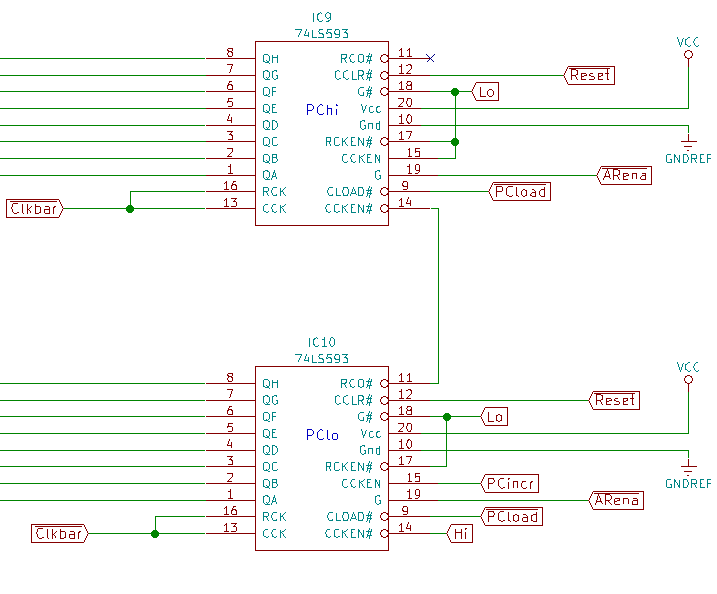
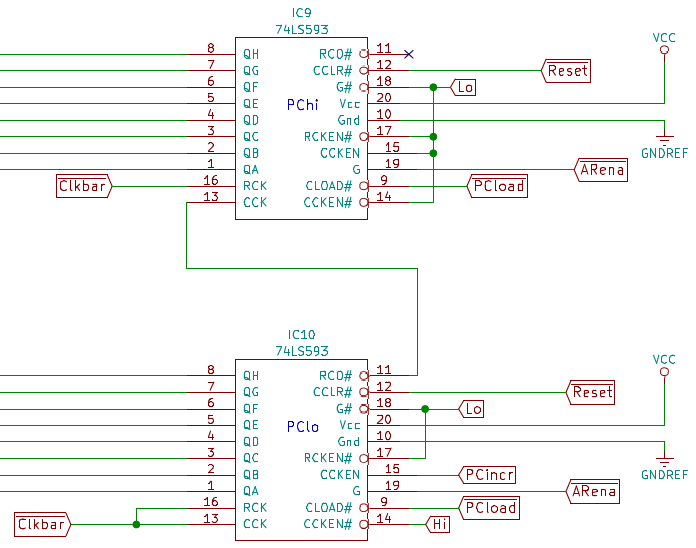
Brought the implementation notes up to date with the new PC circuit.

diff --git a/Docs/implementation_notes.md b/Docs/implementation_notes.md
@@ -100,23 +100,23 @@ The program counter (PC) must be able to load its value from the address
 registers on a jump, increment on consecutive microinstructions and
 sometimes keep its value unchanged.
 
-The PC load line is generated by the 74HCT138 and described above.
-We also need a rising edge for PC increments, and this also has to be
-delayed until the middle of the clock cycle.
+The PC load line (active low) is generated by a 74HCT251 multiplexer
+and is determined by the Jump control lines and the status lines from the
+ALU and UART. The PC increment line (active high) is generated from the
+Decode ROM.
 
-The 74LS593 has a *CCK* input to cause the internal counter to increment
-and two enable lines, *CCKEN* and *CCKEN#* (active high and low, respectively).
-When either *CCKEN* is high or *CCKEN#* is low, the counter will increment
-on a rising *CCK* edge.
+We need a rising edge for PC increments, and this has to be delayed until the
+middle of the clock cycle due to the ROM propagation delays.
+
+To create this rising edge in the middle of the clock cycle, an inverted
+clock signal *clkbar* is generated using an inverter. This is connected
+to both the *CCK* and *RCK* inputs of the 74LS593 used as the low half
+of the PC. *CCK*, when enabled, increments the PC; *RCK*, when enabled,
+causes the counter to load a new value.
 
 ![](Figs/PC_circuit.png)
 
-To make the counter increment halfway through a clock cycle, we must
-generate an inverted system clock signal, *Clkbar* in the above diagram.
-The *PCincr* line which control the PC's increment is wired to *CCKEN*.
-Therefore, the PC will increment halfway through the clock cycle, and
-because *CCK* will drop on a rising system clock edge, this also allows
-consecutive increments of the PC as shown below.
-
-![](Figs/example_pcincr.png)
-
+The 74LS593 is wired so that the PC load line enables *RCK* causes the
+PC load to load the value on the address bus halfway through the clock cycle.
+Similarly, the PC increment line enables *CCK* so that the PC increments its
+value halfway through the clock cycle.

diff --git a/journal.md b/journal.md
@@ -2859,3 +2859,45 @@ moved the Vcc supply over to the UART, so I know that's going to work as well.
 I've ordered some stripboard, some more DIP sockets and some solder on-line.
 I can't find a DIP-42 socket for the ALU, but I'll just use two rows of the
 pin sockets that I already have for the ALU socket.
+
+## Sat 11 May 16:24:30 AEST 2019
+
+Notes on the wiring when I get the PCB.
+
+Pulse clock 555 circuit and the reset circuit is easy. Solder in the UART
+socket so I get power.
+
+Solder in the Decode ROM circuit so I can patch the control lines hi/lo as
+required.
+
+Solder in the uSeq counter. Wire uSreset# high and it should count 0 to F.
+Try the reset button. Add bypass caps as you go. Solder the pin sockets for
+the LEDs of course.
+
+Solder in the dbWriter demux so that I get Clkbar# and check it is working.
+Add bypass caps as you go.
+
+Solder in the PC sockets and put in the two 74LS593 chips. Wire ARena# high.
+Wire PCload# high. Wire PCincr low & the PC should keep its value.
+Wire PCincr high and see if the PC increments OK.
+
+Solder in the ROM ZIF socket. Solder in the Decode ROM socket.
+*Remove all hard-wired lines like PCincr, ARena#, uSreset#!!!*
+Solder in the db Reader demux and the Inverter. Insert the two ROMs.
+Rewire PCload# high. This should be enough to run some NOP, OUT 'H' etc.
+instructions but no jumps yet.
+
+Remove the PCload# high wire. Solder in the Jump logic chip. Wire the Zero
+input high. You may have to solder in the ALU socket, or perhaps use a clip
+on pin 1. Solder in the two AR chips. You should now be able to JMP once
+the AR has values loaded.
+
+Solder in the A and B registers and the LED sockets. Now try some LCA and
+LCB instructions.
+
+Solder in the ALU socket and insert the ALU. Now a lot of instructions
+should run, just none that refer to RAM. At this point you might want to
+use the 50% duty cycle astable 555 circuit.
+
+Finally solder in the RAM socket and the RAM, and try out some RAM
+instructions.
